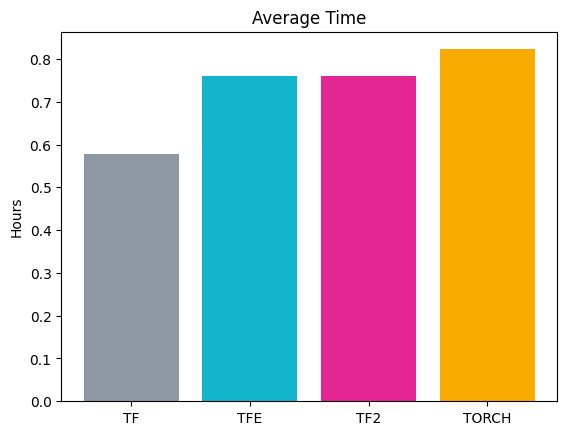
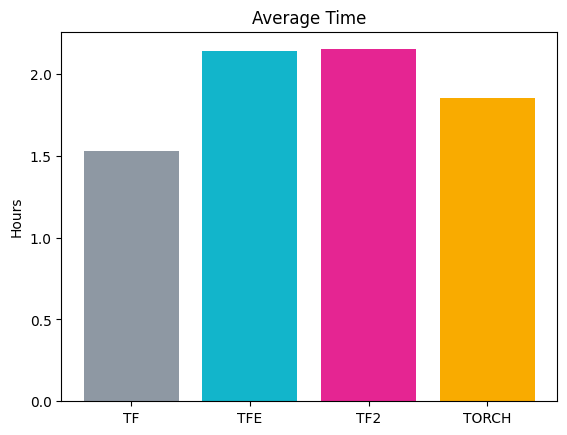
added sac results

diff --git a/metrics.py b/metrics.py
@@ -85,7 +85,7 @@ if __name__ == '__main__':
     tf2_exp_times = []
     torch_exp_times = []
 
-    for exp in tqdm(['a2c', 'apex', 'dqn', 'impala', 'ppo', 'appo', 'pg', 'ars']):
+    for exp in tqdm(['a2c', 'apex', 'dqn', 'impala', 'ppo', 'appo', 'pg', 'ars', 'sac']):
         exp_iqr_val = []
         exp_cvar_diff_val = []
         exp_path = 'cartpole/' + exp
